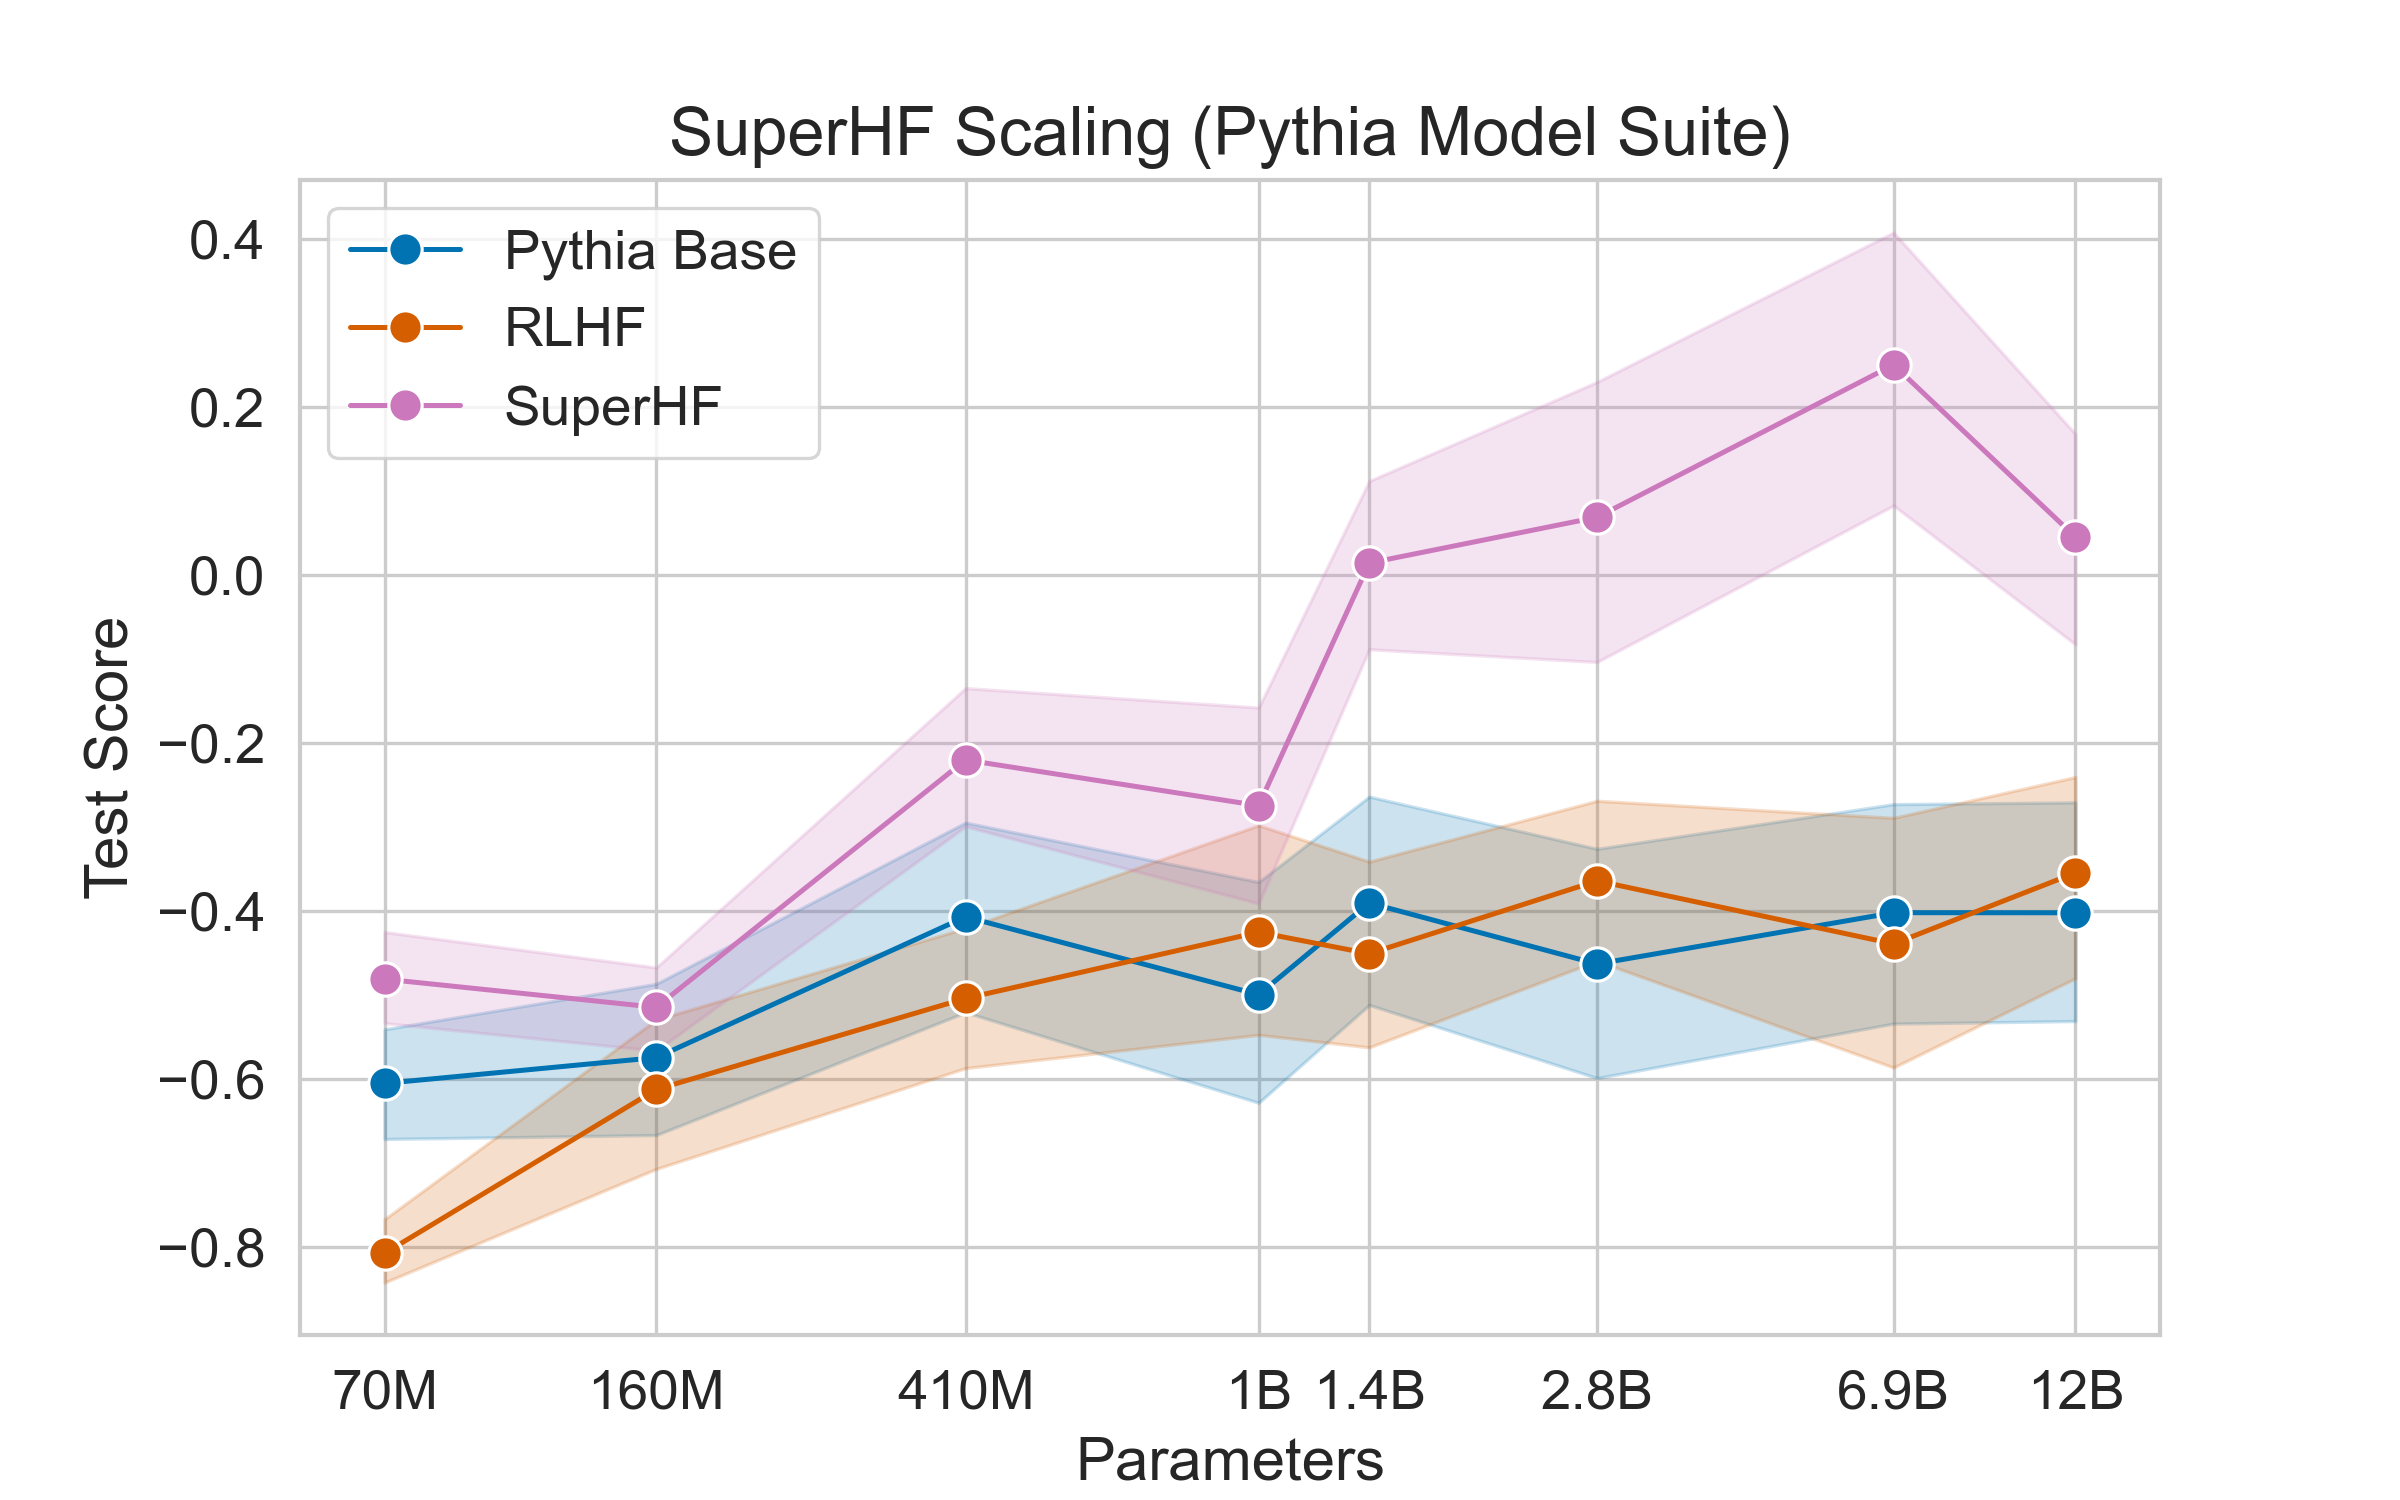
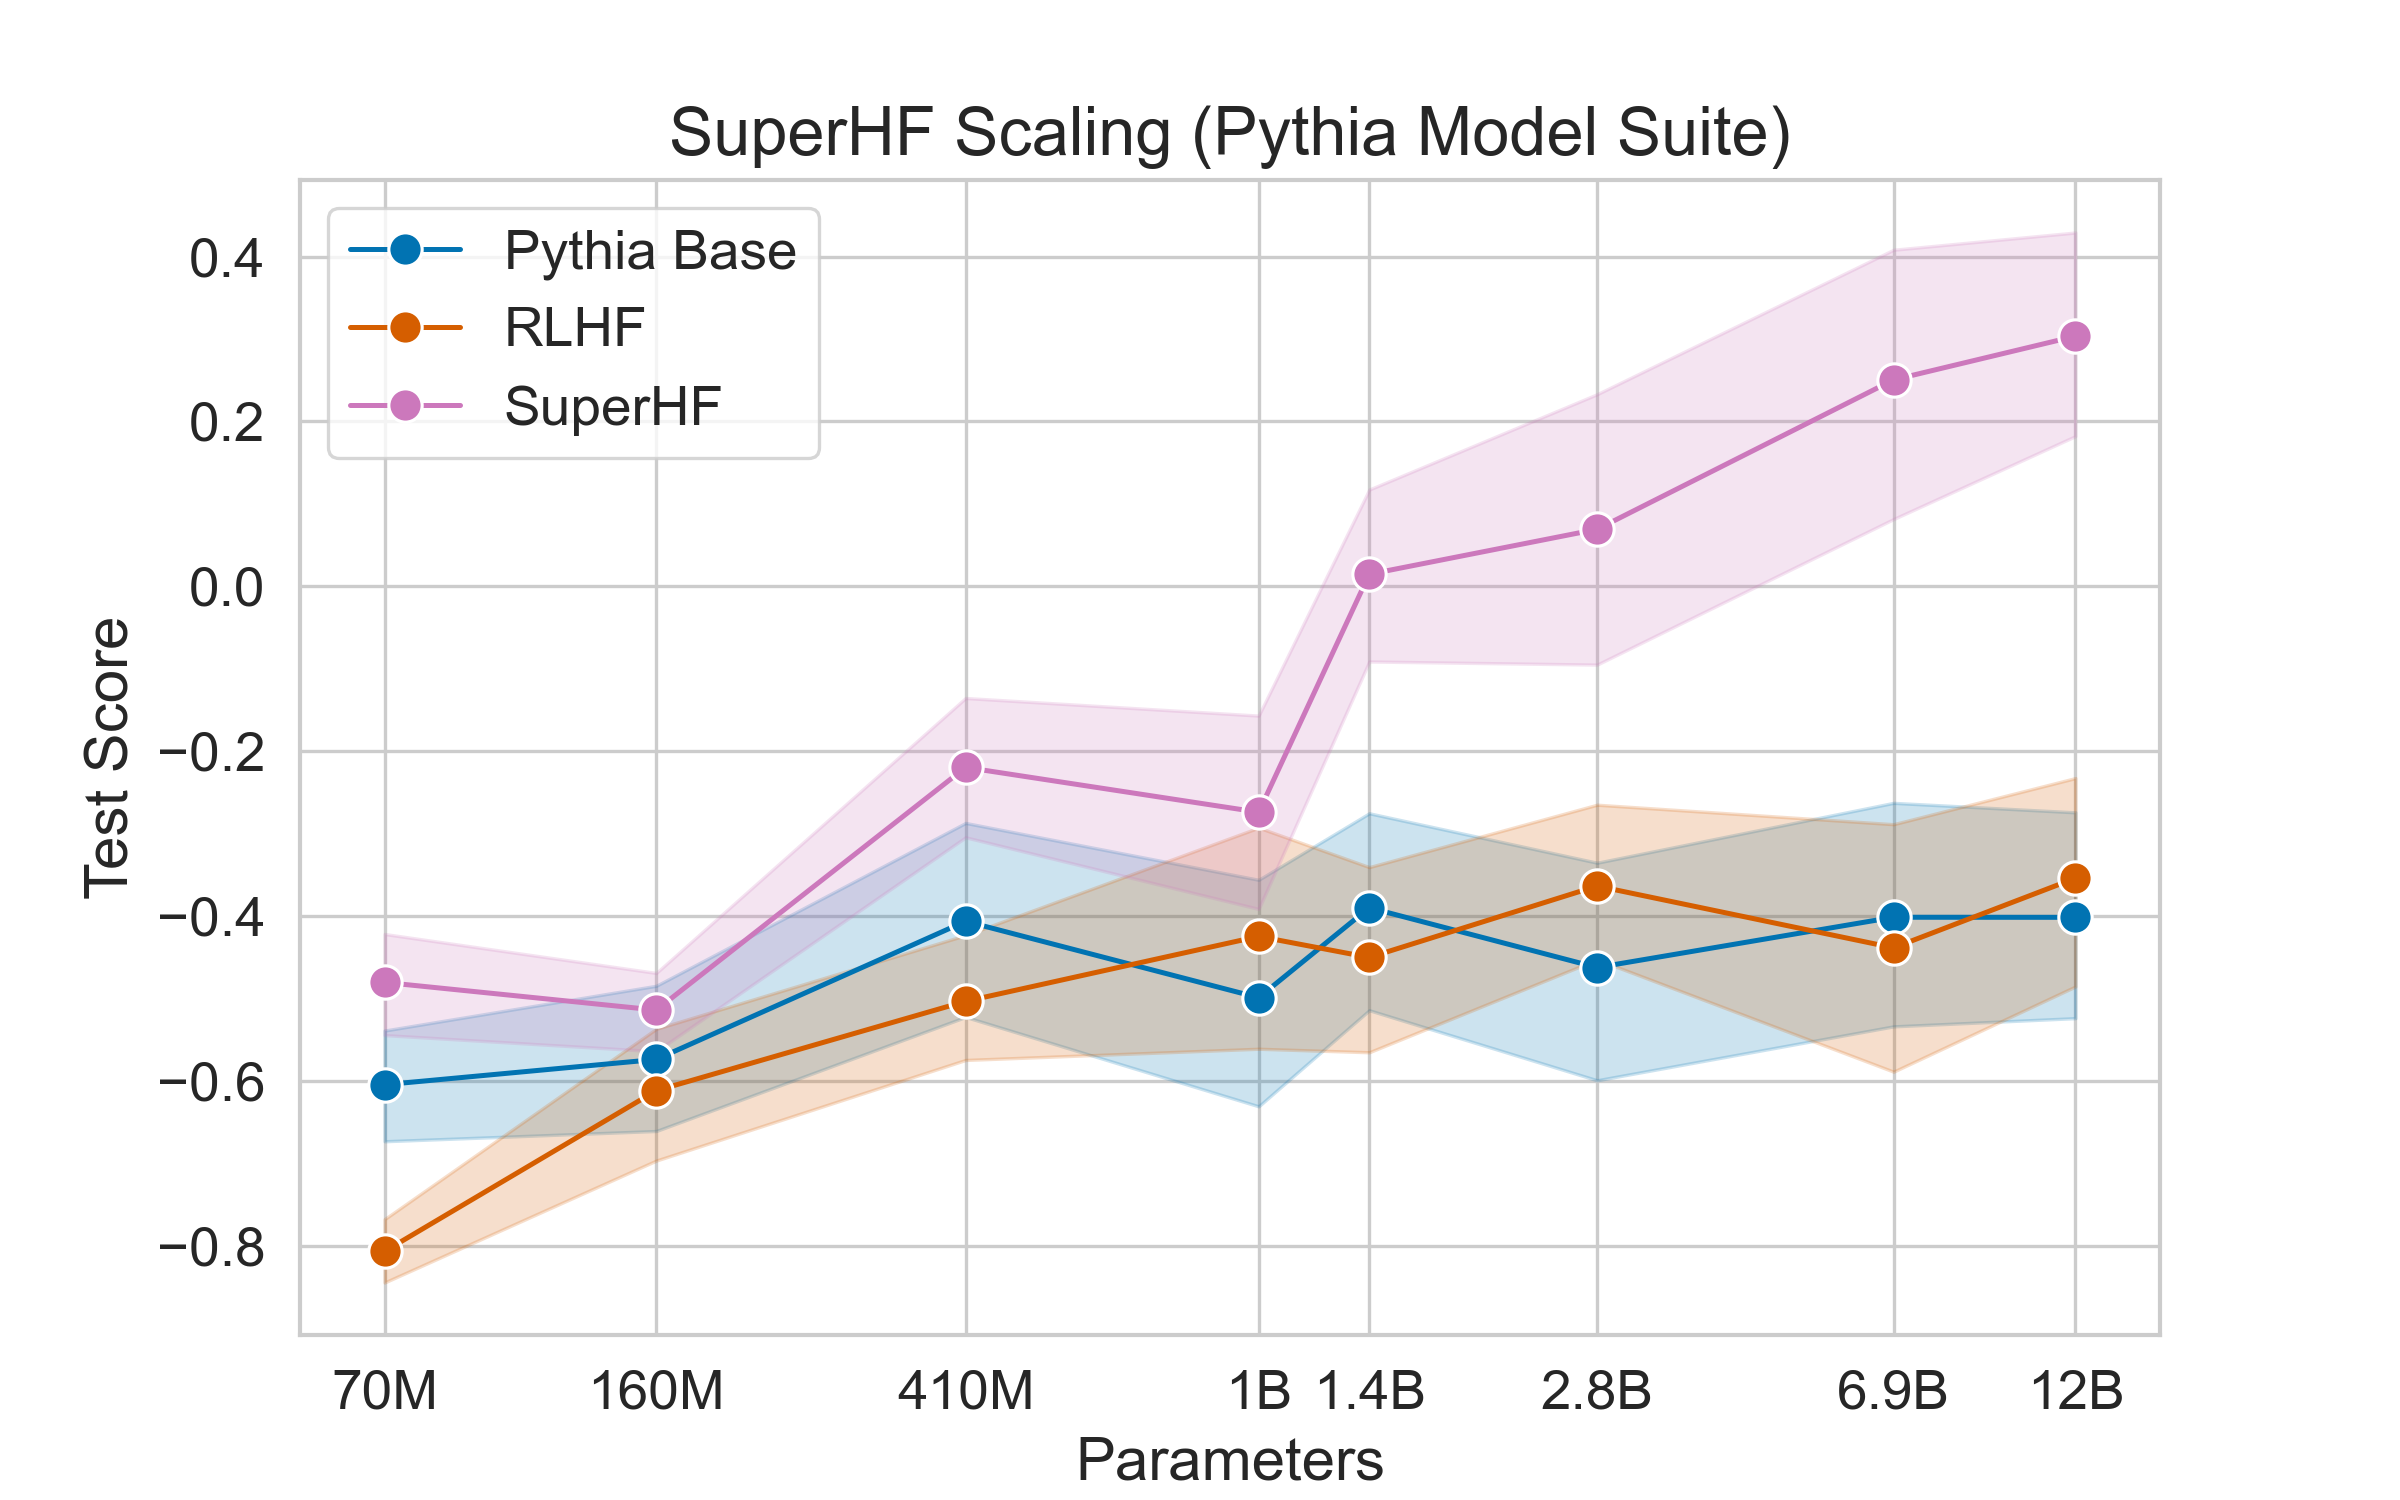
swap back to v2 pythia 12B shf

diff --git a/charts/model_size.py b/charts/model_size.py
@@ -31,8 +31,8 @@ def main() -> None:
         "shf-pythia-1.4b.json",
         "shf-pythia-2.8b.json",
         "shf-pythia-6.9b.json",
-        "shf-pythia-12b.json",  # 3e-5 LR
-        # "shf-pythia-12B@v2.json",  # 5e-5 LR
+        # "shf-pythia-12b.json",  # 3e-5 LR
+        "shf-pythia-12B@v2.json",  # 5e-5 LR
         "pythia-70m-deduped.json",
         "pythia-160m-deduped.json",
         "pythia-410m-deduped.json",
